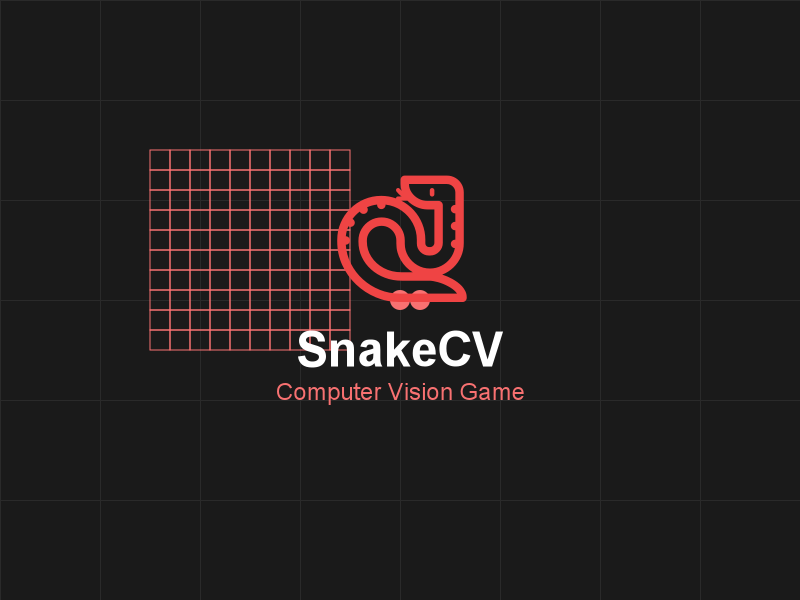
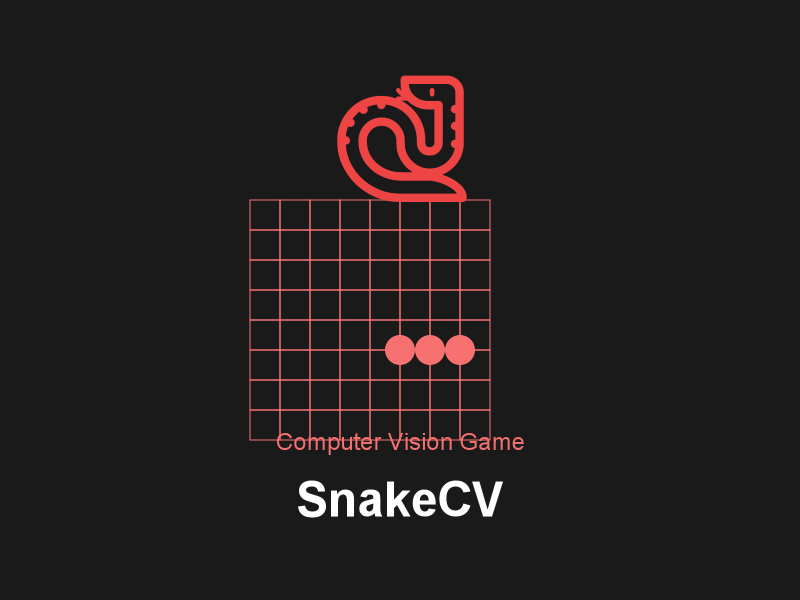
gen ai

Changed region(s): [[0.1875, 0.12, 0.6562, 0.69], [0.375, 0.78, 0.625, 0.87], [0.3125, 0.72, 0.6562, 0.75]]

diff --git a/public/generate-project-images.js b/public/generate-project-images.js
@@ -9,9 +9,9 @@ const projects = [
     color: '#4F46E5',
     icon: '🤖',
     elements: [
-      { type: 'circle', x: 200, y: 150, radius: 50, color: '#6366F1' },
-      { type: 'circle', x: 600, y: 150, radius: 50, color: '#818CF8' },
-      { type: 'line', x1: 200, y1: 300, x2: 600, y2: 300, color: '#6366F1' },
+      { type: 'circle', x: 400, y: 250, radius: 80, color: '#6366F1' },
+      { type: 'circle', x: 400, y: 250, radius: 60, color: '#818CF8' },
+      { type: 'circle', x: 400, y: 250, radius: 40, color: '#A5B4FC' },
       { type: 'text', text: 'AI Assistant', x: 400, y: 400, color: '#818CF8' }
     ]
   },
@@ -21,10 +21,10 @@ const projects = [
     color: '#10B981',
     icon: '💰',
     elements: [
-      { type: 'rect', x: 150, y: 150, width: 500, height: 200, color: '#34D399' },
-      { type: 'line', x1: 150, y1: 250, x2: 650, y2: 250, color: '#6EE7B7' },
-      { type: 'line', x1: 150, y1: 350, x2: 650, y2: 350, color: '#6EE7B7' },
-      { type: 'text', text: 'Finance Tracker', x: 400, y: 400, color: '#6EE7B7' }
+      { type: 'rect', x: 300, y: 250, width: 200, height: 40, color: '#34D399' },
+      { type: 'rect', x: 300, y: 310, width: 150, height: 40, color: '#6EE7B7' },
+      { type: 'rect', x: 300, y: 370, width: 100, height: 40, color: '#A7F3D0' },
+      { type: 'text', text: 'Finance Tracker', x: 400, y: 450, color: '#6EE7B7' }
     ]
   },
   {
@@ -33,10 +33,10 @@ const projects = [
     color: '#F59E0B',
     icon: '📊',
     elements: [
-      { type: 'bar', x: 200, y: 200, width: 60, height: 150, color: '#FBBF24' },
-      { type: 'bar', x: 300, y: 200, width: 60, height: 100, color: '#FCD34D' },
-      { type: 'bar', x: 400, y: 200, width: 60, height: 200, color: '#FBBF24' },
-      { type: 'text', text: 'Data Analytics', x: 400, y: 400, color: '#FCD34D' }
+      { type: 'bar', x: 300, y: 350, width: 40, height: 200, color: '#FBBF24' },
+      { type: 'bar', x: 400, y: 350, width: 40, height: 150, color: '#FCD34D' },
+      { type: 'bar', x: 500, y: 350, width: 40, height: 250, color: '#FDE68A' },
+      { type: 'text', text: 'Data Analytics', x: 400, y: 450, color: '#FCD34D' }
     ]
   },
   {
@@ -45,10 +45,11 @@ const projects = [
     color: '#EF4444',
     icon: '🐍',
     elements: [
-      { type: 'grid', x: 150, y: 150, size: 20, color: '#F87171' },
-      { type: 'circle', x: 400, y: 300, radius: 10, color: '#F87171' },
-      { type: 'circle', x: 420, y: 300, radius: 10, color: '#F87171' },
-      { type: 'text', text: 'Computer Vision Game', x: 400, y: 400, color: '#F87171' }
+      { type: 'grid', x: 250, y: 200, size: 30, color: '#F87171' },
+      { type: 'circle', x: 400, y: 350, radius: 15, color: '#F87171' },
+      { type: 'circle', x: 430, y: 350, radius: 15, color: '#F87171' },
+      { type: 'circle', x: 460, y: 350, radius: 15, color: '#F87171' },
+      { type: 'text', text: 'Computer Vision Game', x: 400, y: 450, color: '#F87171' }
     ]
   },
   {
@@ -57,10 +58,10 @@ const projects = [
     color: '#8B5CF6',
     icon: '🧠',
     elements: [
-      { type: 'wave', x: 150, y: 200, width: 500, height: 100, color: '#A78BFA' },
-      { type: 'wave', x: 150, y: 300, width: 500, height: 100, color: '#C4B5FD' },
-      { type: 'circle', x: 400, y: 150, radius: 30, color: '#A78BFA' },
-      { type: 'text', text: 'Mental Health AI', x: 400, y: 400, color: '#C4B5FD' }
+      { type: 'wave', x: 200, y: 250, width: 400, height: 40, color: '#A78BFA' },
+      { type: 'wave', x: 200, y: 300, width: 400, height: 40, color: '#C4B5FD' },
+      { type: 'circle', x: 400, y: 200, radius: 40, color: '#A78BFA' },
+      { type: 'text', text: 'Mental Health AI', x: 400, y: 450, color: '#C4B5FD' }
     ]
   }
 ];
@@ -68,8 +69,8 @@ const projects = [
 function drawWave(ctx, x, y, width, height, color) {
   ctx.beginPath();
   ctx.moveTo(x, y);
-  for (let i = 0; i <= width; i += 10) {
-    ctx.lineTo(x + i, y + Math.sin(i / 20) * height);
+  for (let i = 0; i <= width; i += 20) {
+    ctx.lineTo(x + i, y + Math.sin(i / 30) * height);
   }
   ctx.strokeStyle = color;
   ctx.lineWidth = 2;
@@ -84,8 +85,8 @@ function drawBar(ctx, x, y, width, height, color) {
 function drawGrid(ctx, x, y, size, color) {
   ctx.strokeStyle = color;
   ctx.lineWidth = 1;
-  for (let i = 0; i < 10; i++) {
-    for (let j = 0; j < 10; j++) {
+  for (let i = 0; i < 8; i++) {
+    for (let j = 0; j < 8; j++) {
       ctx.strokeRect(x + i * size, y + j * size, size, size);
     }
   }
@@ -101,15 +102,6 @@ function generateProjectImage(project) {
     // Background
     ctx.fillStyle = '#1a1a1a';
     ctx.fillRect(0, 0, width, height);
-
-    // Grid Pattern
-    ctx.fillStyle = '#2a2a2a';
-    for (let i = 0; i <= width; i += 100) {
-      ctx.fillRect(i, 0, 1, height);
-    }
-    for (let i = 0; i <= height; i += 100) {
-      ctx.fillRect(0, i, width, 1);
-    }
 
     // Draw project-specific elements
     project.elements.forEach(element => {
@@ -155,12 +147,12 @@ function generateProjectImage(project) {
     ctx.textAlign = 'center';
     ctx.textBaseline = 'middle';
     ctx.fillStyle = project.color;
-    ctx.fillText(project.icon, width / 2, height / 2 - 50);
+    ctx.fillText(project.icon, width / 2, 150);
 
     // Project Title
     ctx.font = 'bold 48px Arial';
     ctx.fillStyle = '#ffffff';
-    ctx.fillText(project.title, width / 2, height / 2 + 50);
+    ctx.fillText(project.title, width / 2, 500);
 
     // Save the image
     const buffer = canvas.toBuffer('image/png');
